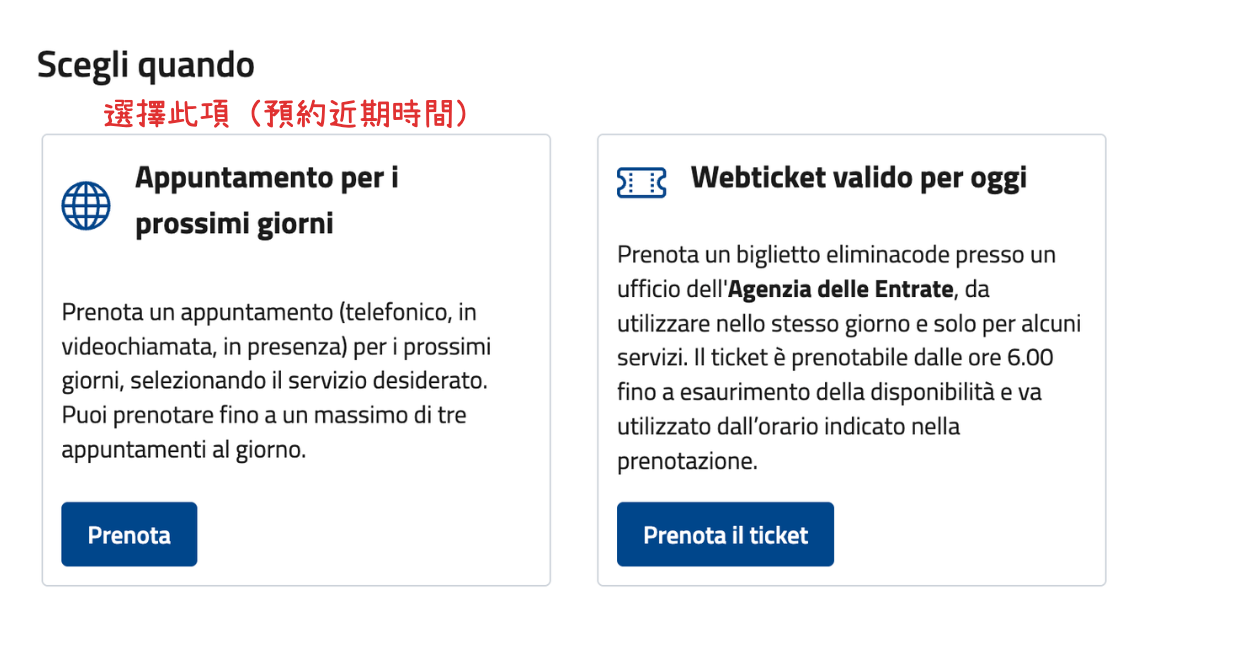
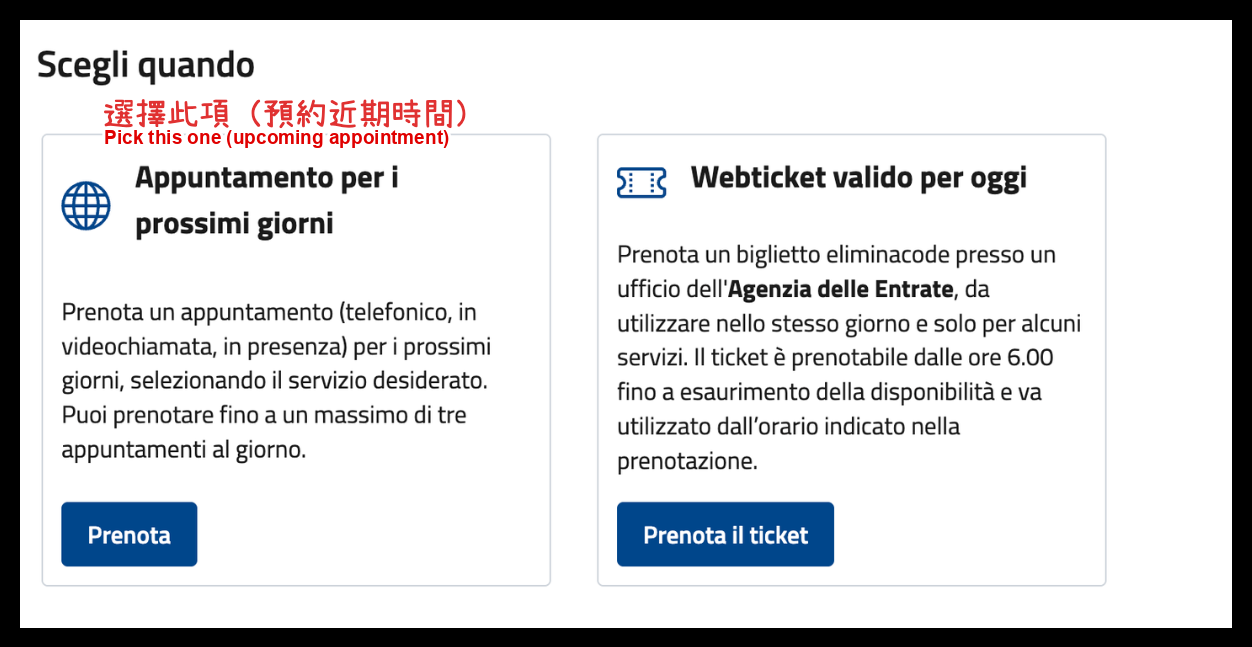
content: annotate screenshots in English, add image captions
Each red Chinese note on the screenshots now carries an English line
underneath (white-stroked so it stays legible over the UI), so one image
set serves both languages.

Adds figure/figcaption support to the Markdown renderer: ![alt](src
"caption") renders a visible caption. Every image in both posts has one.

Replaces the AA4/8 example with the newly annotated photo, with date of
birth, street address, postcode and signature masked.

Claude-Session: https://claude.ai/code/session_01Me892hUpCFcpJ9XpnViNBX

Changed region(s): [[0.0, 0.0, 1.0, 1.0], [0.0623, 0.1855, 0.3738, 0.2473]]

diff --git a/src/content/posts/en/italy-codice-fiscale.md b/src/content/posts/en/italy-codice-fiscale.md
@@ -35,43 +35,43 @@ The booking site: [Prenota un appuntamento — Agenzia delle Entrate](https://ww
 
 Under "Di cosa hai bisogno?" choose **Assistenza fiscale** (tax matters). Under "Per quale argomento?" choose **Identificativi fiscali, abilitazioni, consegna documenti e istanze** (tax identification).
 
-![Choosing Assistenza fiscale and Identificativi fiscali](/assets/posts/italy-codice-fiscale/booking-01.png)
+![Choosing Assistenza fiscale and Identificativi fiscali](/assets/posts/italy-codice-fiscale/booking-01.png "Step 1 — service: <em>Assistenza fiscale</em>; topic: <em>Identificativi fiscali</em>")
 
 ### 2. Book an upcoming slot
 
 Take the left option, **Appuntamento per i prossimi giorni**. The Webticket on the right is a same-day queue ticket, which is not what you want here.
 
-![Choosing Appuntamento per i prossimi giorni](/assets/posts/italy-codice-fiscale/booking-02.png)
+![Choosing Appuntamento per i prossimi giorni](/assets/posts/italy-codice-fiscale/booking-02.png "Step 2 — take <em>Appuntamento per i prossimi giorni</em> on the left")
 
 ### 3. For yourself, first application
 
 Choose **per te stesso** (for yourself), tick the first-time application option, leave the tax code field empty, and accept the privacy notice.
 
-![Selecting a first-time application for yourself](/assets/posts/italy-codice-fiscale/booking-03.png)
+![Selecting a first-time application for yourself](/assets/posts/italy-codice-fiscale/booking-03.png "Step 3 — for yourself, first-time application, tax code field left empty")
 
 ### 4. Fill in your details
 
 `Cognome` is your surname, `Nome` your given name. At least one contact field is required — use email, since the confirmation lands there.
 
-![Filling in name and contact details](/assets/posts/italy-codice-fiscale/booking-04.png)
+![Filling in name and contact details](/assets/posts/italy-codice-fiscale/booking-04.png "Step 4 — <em>Cognome</em> is surname, <em>Nome</em> is given name; email is the contact to use")
 
 ### 5. Enter your starting city
 
 Type the city you are travelling from and the system suggests nearby offices.
 
-![Entering the starting city](/assets/posts/italy-codice-fiscale/booking-05.png)
+![Entering the starting city](/assets/posts/italy-codice-fiscale/booking-05.png "Step 5 — enter the city you travel from; nearby offices are suggested")
 
 ### 6. Choose an office and date
 
 You get a list of nearby Ufficio Territoriale branches with their earliest available dates. Pick one that works on both date and travel time.
 
-![Choosing an office and date](/assets/posts/italy-codice-fiscale/booking-06.png)
+![Choosing an office and date](/assets/posts/italy-codice-fiscale/booking-06.png "Step 6 — pick an office by date and how easy it is to reach")
 
 ### 7. Choose a time
 
 Green days on the calendar are available. Take the earliest slot of the day — you are less likely to be held up by the queue ahead of you.
 
-![Choosing the date and time slot](/assets/posts/italy-codice-fiscale/booking-07.png)
+![Choosing the date and time slot](/assets/posts/italy-codice-fiscale/booking-07.png "Step 7 — green days are available; take the earliest slot")
 
 ### 8. State your reason
 
@@ -81,11 +81,11 @@ In `Motivo di richiesta appuntamento`, explain why you need the appointment, for
 >
 > (First application for an Italian tax code for study / residence in Italy.)
 
-![Filling in the reason and contact details](/assets/posts/italy-codice-fiscale/booking-08.png)
+![Filling in the reason and contact details](/assets/posts/italy-codice-fiscale/booking-08.png "Step 8 — state the reason for the appointment and leave contact details")
 
 Once submitted you get a confirmation email like this one. From there it is just document prep — turn up on time on the day.
 
-![The booking confirmation email](/assets/posts/italy-codice-fiscale/feature-appointment-email.png)
+![The booking confirmation email](/assets/posts/italy-codice-fiscale/feature-appointment-email.png "The confirmation email (appointment ID and ticket number redacted)")
 
 ## What to bring
 
@@ -99,7 +99,7 @@ Once submitted you get a confirmation email like this one. From there it is just
 
 A filled-in example:
 
-![Example of a completed AA4/8 form](/assets/posts/italy-codice-fiscale/aa4-8-example.png)
+![Example of a completed AA4/8 form](/assets/posts/italy-codice-fiscale/aa4-8-example.png "A completed AA4/8 form (date of birth, address and signature redacted)")
 
 ## On the day
 
@@ -113,7 +113,7 @@ A few things worth knowing at the counter:
 
 What you walk out with is this Certificato di attribuzione del codice fiscale:
 
-![The tax code certificate, personal details redacted](/assets/posts/italy-codice-fiscale/certificate.png)
+![The tax code certificate, personal details redacted](/assets/posts/italy-codice-fiscale/certificate.png "The tax code certificate (code, barcode, date of birth and protocol numbers redacted)")
 
 ## References
 

diff --git a/src/content/posts/zh-tw/italy-codice-fiscale.md b/src/content/posts/zh-tw/italy-codice-fiscale.md
@@ -35,43 +35,43 @@ pair_lang: null
 
 「Di cosa hai bisogno?」選 **Assistenza fiscale**（稅務相關）；「Per quale argomento?」選 **Identificativi fiscali, abilitazioni, consegna documenti e istanze**（稅務識別資料）。
 
-![選擇 Assistenza fiscale 與 Identificativi fiscali](/assets/posts/italy-codice-fiscale/booking-01.png)
+![選擇 Assistenza fiscale 與 Identificativi fiscali](/assets/posts/italy-codice-fiscale/booking-01.png "步驟 1：服務類型選 Assistenza fiscale，主題選 Identificativi fiscali")
 
 ### 2. 選擇預約近期時間
 
 選左邊的 **Appuntamento per i prossimi giorni**（預約近期時間）。右邊的 Webticket 是當天現場的抽號票，不是我們要的。
 
-![選擇 Appuntamento per i prossimi giorni](/assets/posts/italy-codice-fiscale/booking-02.png)
+![選擇 Appuntamento per i prossimi giorni](/assets/posts/italy-codice-fiscale/booking-02.png "步驟 2：選左邊的 Appuntamento per i prossimi giorni")
 
 ### 3. 本人辦理、首次申請
 
 選 **per te stesso**（本人辦理），勾選首次申請稅號的選項，稅號欄位留空，最後勾選已閱讀個資保護政策。
 
-![選擇本人辦理與首次辦理稅號](/assets/posts/italy-codice-fiscale/booking-03.png)
+![選擇本人辦理與首次辦理稅號](/assets/posts/italy-codice-fiscale/booking-03.png "步驟 3：本人辦理、首次申請稅號")
 
 ### 4. 填寫基本資料
 
 `Cognome` 是姓、`Nome` 是名。聯絡方式三選一必填，建議填 email，預約確認信會寄到這裡。
 
-![填寫姓名與聯絡方式](/assets/posts/italy-codice-fiscale/booking-04.png)
+![填寫姓名與聯絡方式](/assets/posts/italy-codice-fiscale/booking-04.png "步驟 4：Cognome 是姓、Nome 是名，聯絡方式建議填 email")
 
 ### 5. 輸入出發城市
 
 輸入你出發的城市，系統會自動推薦鄰近的辦事處。
 
-![輸入出發城市](/assets/posts/italy-codice-fiscale/booking-05.png)
+![輸入出發城市](/assets/posts/italy-codice-fiscale/booking-05.png "步驟 5：輸入出發城市，系統會推薦鄰近辦事處")
 
 ### 6. 挑辦事處與日期
 
 系統會列出附近幾個 Ufficio Territoriale 與各自最近可預約的日期。挑一個日期合適、交通也方便到的。
 
-![挑選辦事處與日期](/assets/posts/italy-codice-fiscale/booking-06.png)
+![挑選辦事處與日期](/assets/posts/italy-codice-fiscale/booking-06.png "步驟 6：挑日期與交通方便的辦事處")
 
 ### 7. 選時段
 
 日曆上綠色是可預約的日子。時段建議選最早的，當天比較不會被前面的人拖到。
 
-![選擇日期與時段](/assets/posts/italy-codice-fiscale/booking-07.png)
+![選擇日期與時段](/assets/posts/italy-codice-fiscale/booking-07.png "步驟 7：綠色為可預約日，時段建議選最早的")
 
 ### 8. 說明預約事由
 
@@ -81,11 +81,11 @@ pair_lang: null
 >
 > （申請在義大利就學／居留之首次義大利稅號）
 
-![填寫預約事由與聯絡方式](/assets/posts/italy-codice-fiscale/booking-08.png)
+![填寫預約事由與聯絡方式](/assets/posts/italy-codice-fiscale/booking-08.png "步驟 8：說明預約事由，並留下聯絡方式")
 
 送出後會收到像這樣的確認信，接著就可以開始準備文件，當天準時到即可。
 
-![預約確認信](/assets/posts/italy-codice-fiscale/feature-appointment-email.png)
+![預約確認信](/assets/posts/italy-codice-fiscale/feature-appointment-email.png "預約確認信（預約編號與 Ticket 號碼已遮蔽）")
 
 ## 當天要帶的文件
 
@@ -99,7 +99,7 @@ pair_lang: null
 
 表格填寫範例：
 
-![AA4/8 表格填寫範例](/assets/posts/italy-codice-fiscale/aa4-8-example.png)
+![AA4/8 表格填寫範例](/assets/posts/italy-codice-fiscale/aa4-8-example.png "AA4/8 表格填寫範例（生日、地址與簽名已遮蔽）")
 
 ## 當天流程
 
@@ -113,7 +113,7 @@ pair_lang: null
 
 最後會拿到這張 Certificato di attribuzione del codice fiscale：
 
-![稅號證明（個資已遮蔽）](/assets/posts/italy-codice-fiscale/certificate.png)
+![稅號證明（個資已遮蔽）](/assets/posts/italy-codice-fiscale/certificate.png "稅號證明（稅號、條碼、生日與公文編號已遮蔽）")
 
 ## 參考資料
 
